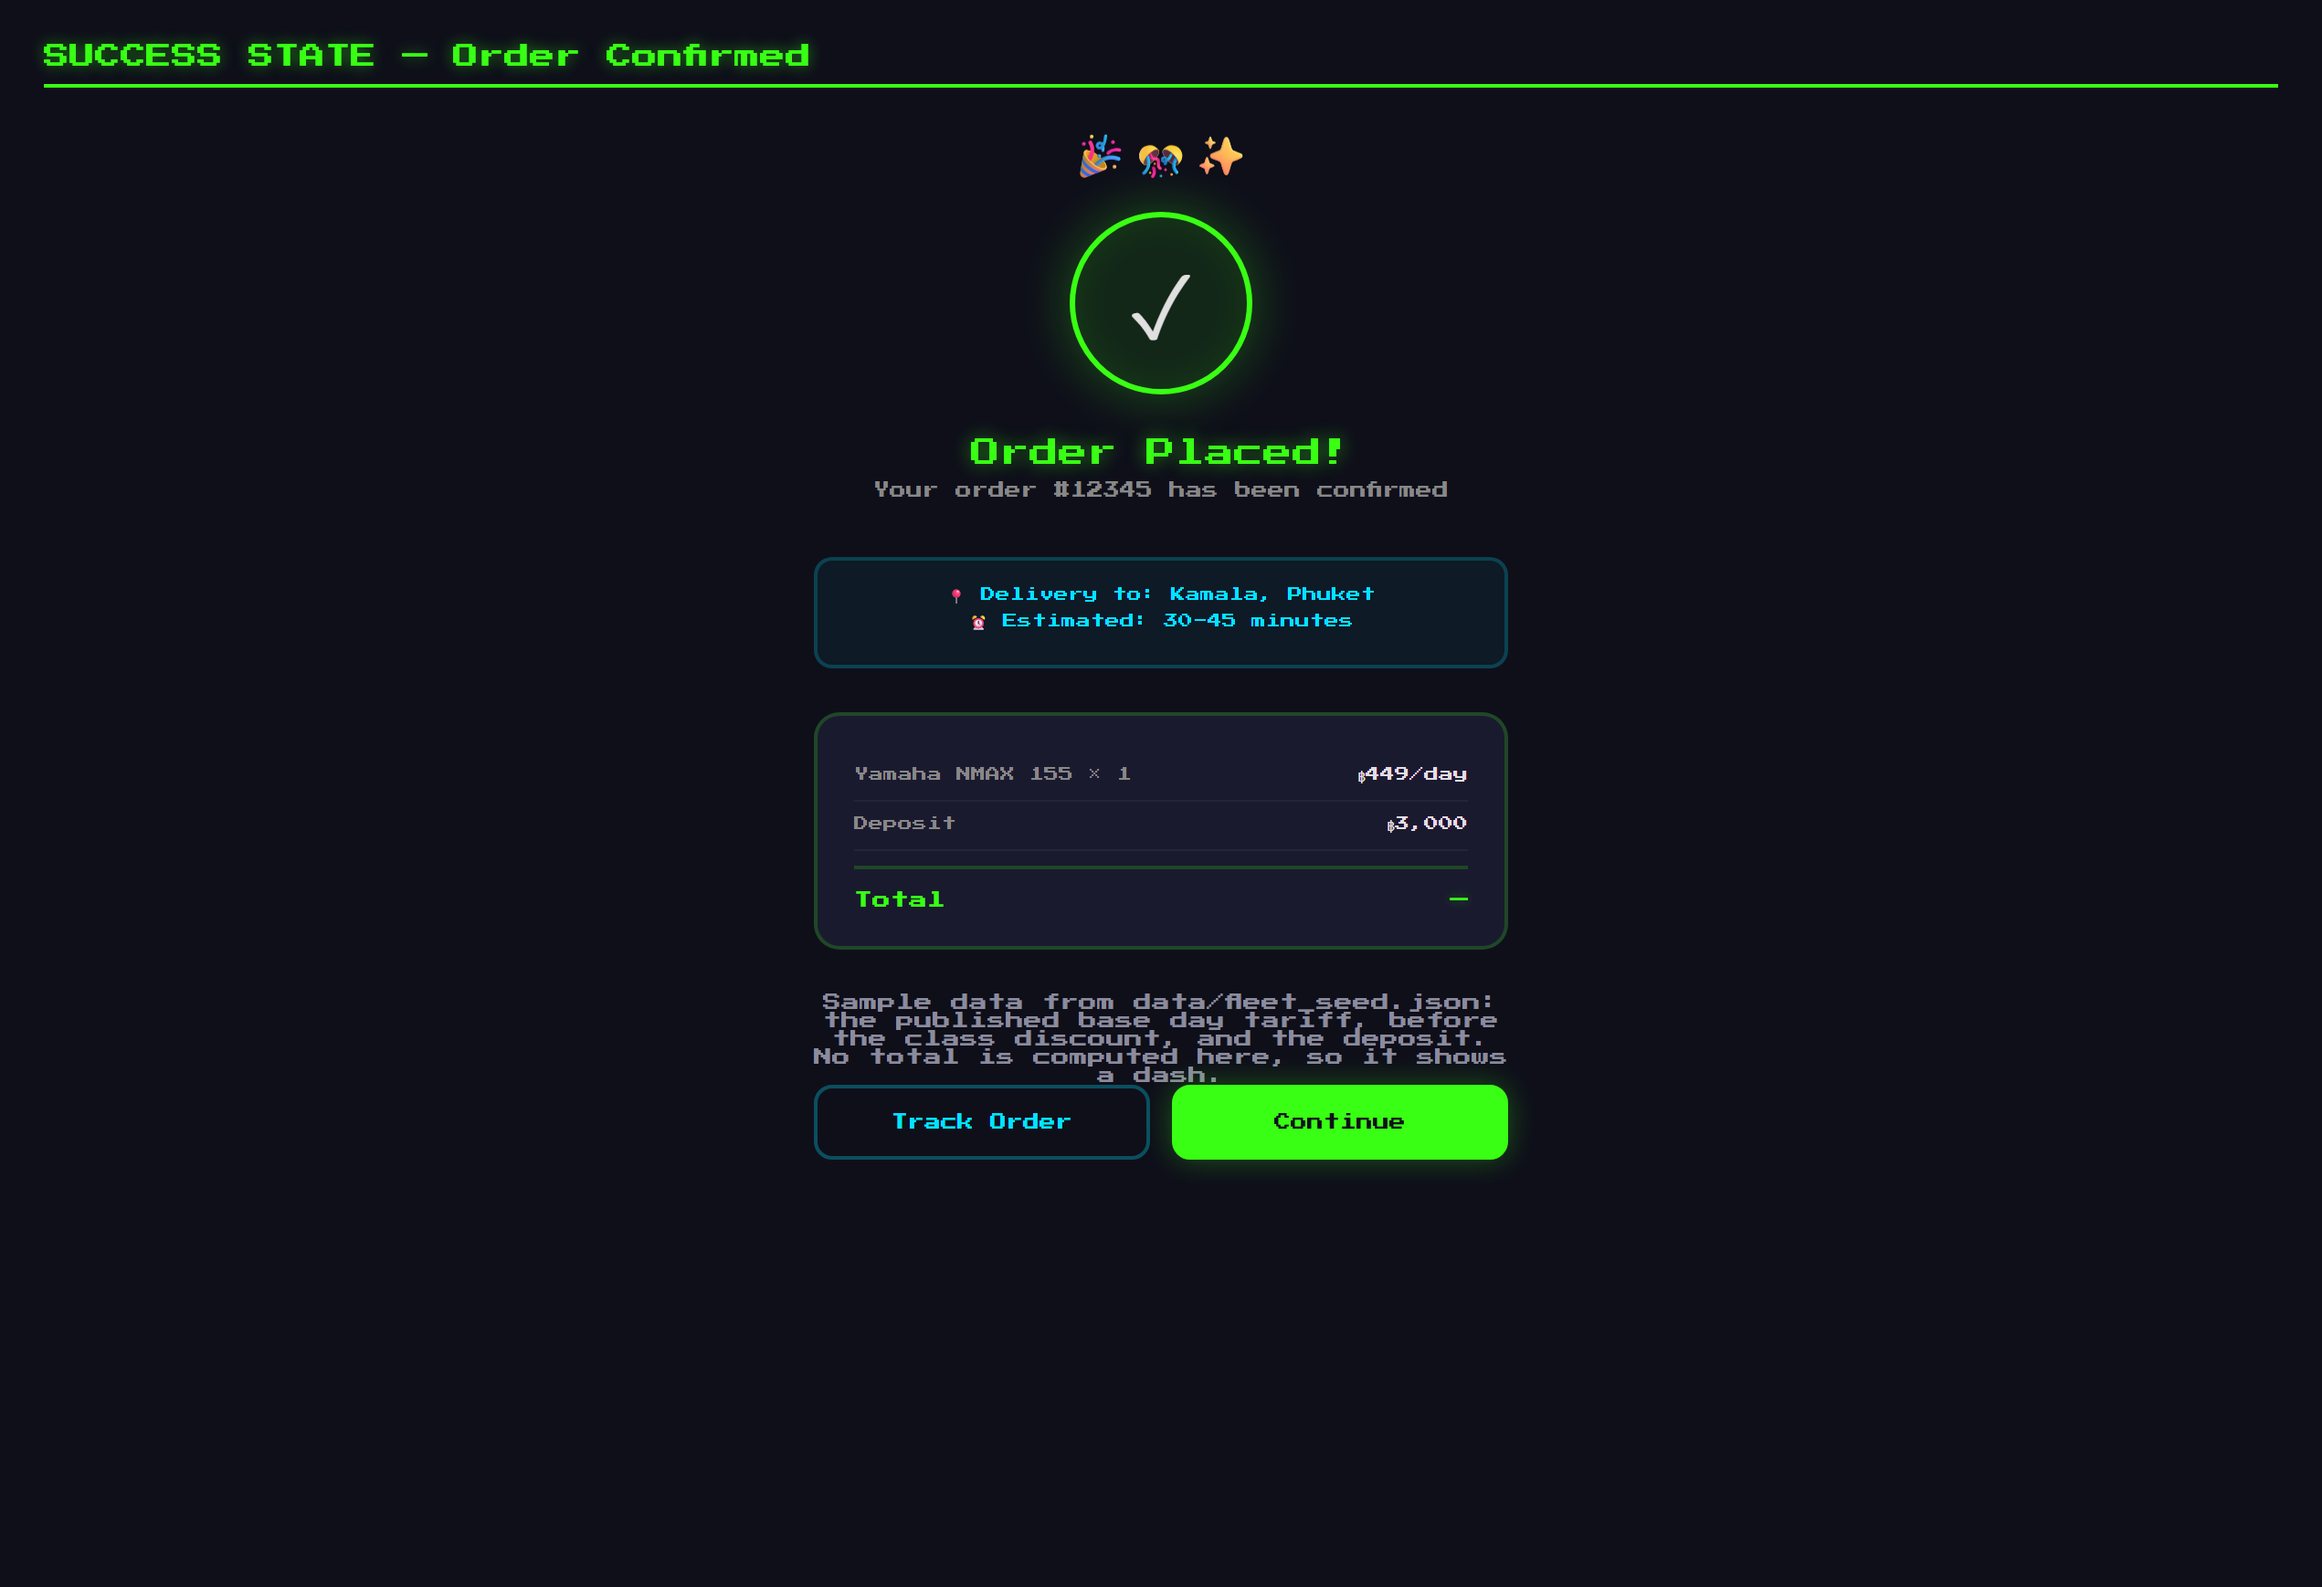
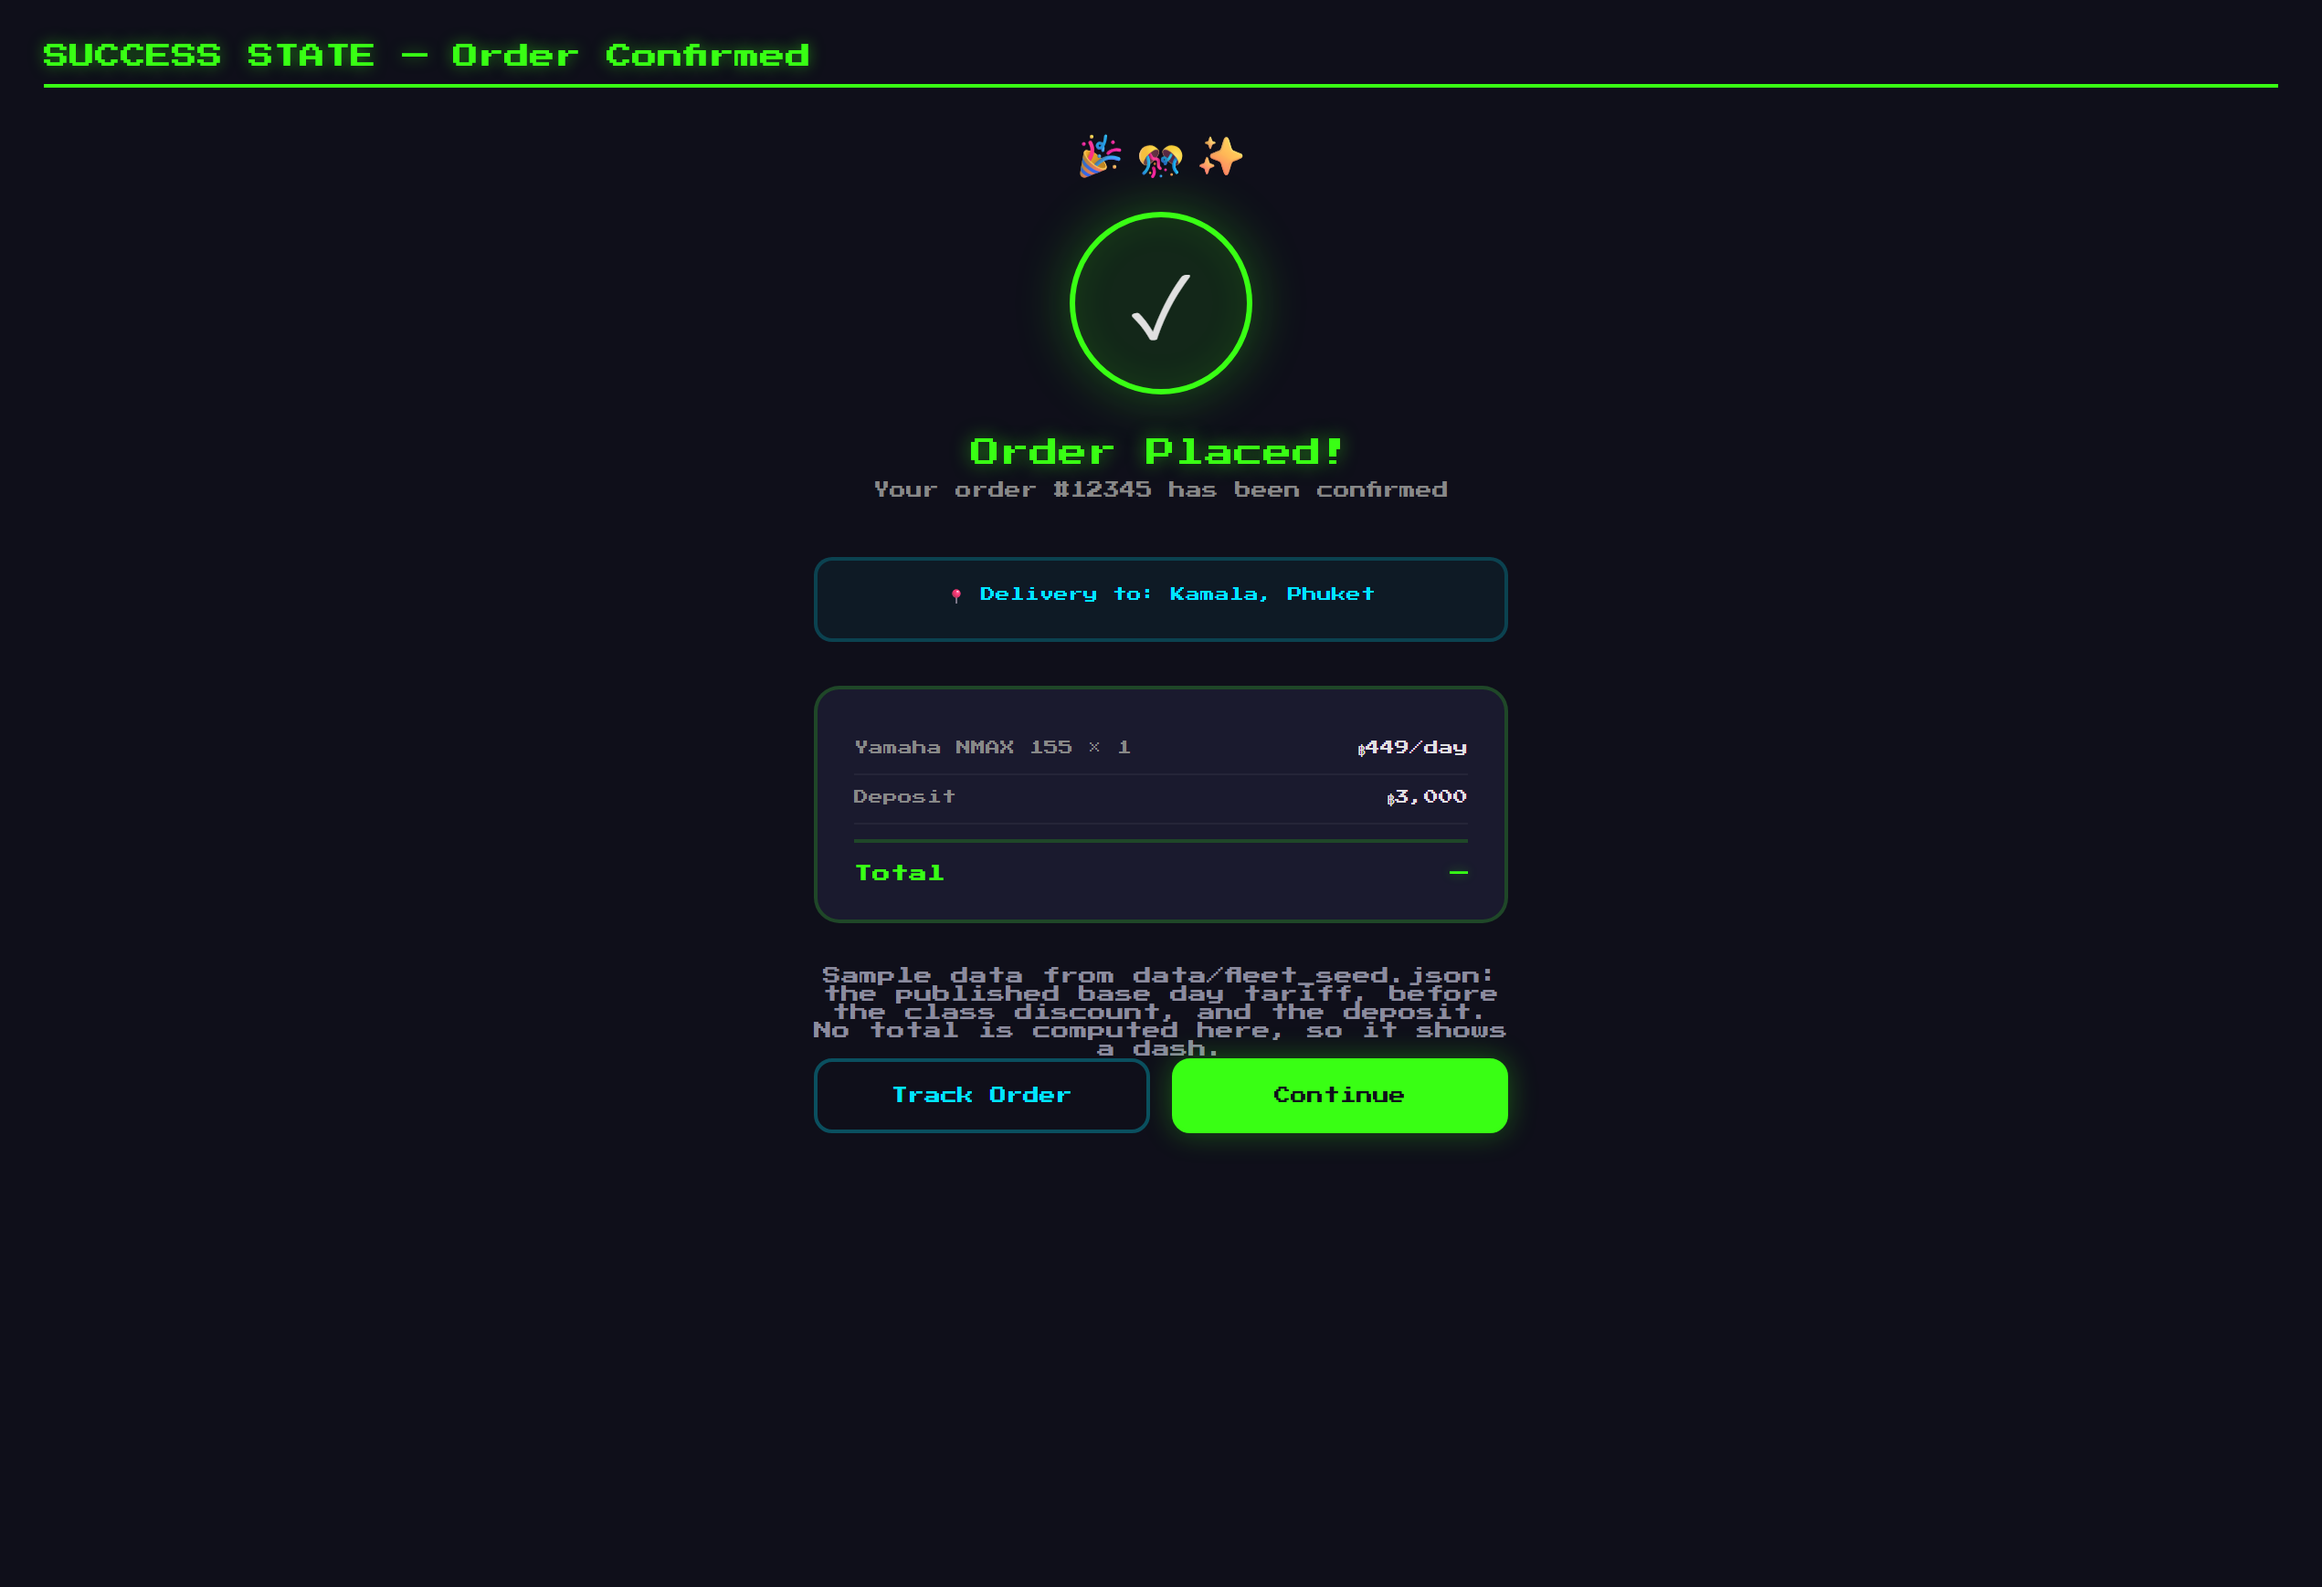
screenshots: no free delivery and no 30-45 minute estimate on the rental demo pages (review)
Review found two delivery claims of the old shop still on the demo pages
this branch re-rendered, where they now read as rental claims that
data/fleet_seed.json contradicts. Commit 5b14236 says every figure on those
pages is the page's own, from the seed.

- 07-cart said "Delivery: Free". The seed's rental_terms.delivery documents
  one delivery price (known_tariff_example: Bangtao, 290 THB), and its
  tariff_note says every other area's price is unpublished and must render
  as a dash. The cart names no area, so its delivery row now shows a dash,
  like its subtotal and total, and its note says why. The edit is made in
  the heredoc of generate-pages.sh, which was run again: the 05, 06 and 07
  pages equal their heredocs byte for byte (05 and 06 unchanged). The
  unused .free rule went with the word.
- 20-success said "Estimated: 30-45 minutes" under the delivery address.
  The seed publishes no travel time: same_day delivery is two hours after
  the booking and never before the 11:00-13:00 window. The owner ruled on
  2026-09-24 that no delivery time in minutes is shown
  (tests/delivery_eta_wiring.rs). The line is removed rather than replaced,
  so nothing is paraphrased from the seed; the address line stays.

Both renders were taken again the way 5b14236 took them: headless Microsoft
Edge, a 1271 x 869 window at device scale 2 (2542 x 1738), waiting for the
page's web fonts (--virtual-time-budget=10000). A trial render of the
[…]

Changed region(s): [[0.3419, 0.3728, 0.6526, 0.7457]]

diff --git a/screenshots/07-cart/index.html b/screenshots/07-cart/index.html
@@ -1,9 +1,9 @@
 <!DOCTYPE html><html><head><meta charset="utf-8"/><meta name="viewport" content="width=device-width,initial-scale=1.0"/><title>07 · Cart</title>
 <link href="https://fonts.googleapis.com/css2?family=Inter:wght@400;600;700&family=Press+Start+2P&display=swap" rel="stylesheet">
-<style>:root{--bg:#0f0f1a;--bg2:#1a1a2e;--card:#16213e;--border:#2a2a4a;--text:#e8e8e8;--text2:#8b8b9e;--green:#39ff14;--pixel-shadow:4px 4px 0 rgba(0,0,0,0.5);--radius-sm:4px;--radius-md:8px;}*{box-sizing:border-box;margin:0;padding:0;}body{font-family:'Inter',sans-serif;background:var(--bg);color:var(--text);padding:24px;}h1{font-family:'Press Start 2P',monospace;font-size:10px;color:var(--cyan);margin-bottom:20px;text-transform:uppercase;letter-spacing:2px;}.note{font-size:10px;color:var(--text2);margin-bottom:12px;}.item{display:flex;align-items:center;gap:10px;background:var(--card);border:2px solid var(--border);border-radius:var(--radius-md);padding:10px;margin-bottom:8px;box-shadow:var(--pixel-shadow);}.img{width:44px;height:44px;background:var(--bg2);border-radius:var(--radius-sm);display:flex;align-items:center;justify-content:center;font-size:22px;flex-shrink:0;}.info{flex:1;}.name{font-weight:600;font-size:12px;}.price{font-size:10px;color:var(--text2);}.controls{display:flex;align-items:center;gap:6px;}.qty{width:26px;height:26px;border:2px solid var(--border);background:var(--bg2);color:var(--text);border-radius:var(--radius-sm);cursor:pointer;font-size:14px;display:flex;align-items:center;justify-content:center;}.val{font-family:'Press Start 2P',monospace;font-size:9px;min-width:18px;text-align:center;}.summary{background:var(--card);border:2px solid var(--border);border-radius:var(--radius-md);padding:14px;box-shadow:var(--pixel-shadow);}.row{display:flex;justify-content:space-between;margin-bottom:6px;font-size:12px;}.row.total{font-weight:700;padding-top:6px;border-top:1px solid var(--border);margin-top:6px;}.amount{font-family:'Press Start 2P',monospace;font-size:12px;color:var(--green);}.free{color:var(--green);}</style></head><body>
+<style>:root{--bg:#0f0f1a;--bg2:#1a1a2e;--card:#16213e;--border:#2a2a4a;--text:#e8e8e8;--text2:#8b8b9e;--green:#39ff14;--pixel-shadow:4px 4px 0 rgba(0,0,0,0.5);--radius-sm:4px;--radius-md:8px;}*{box-sizing:border-box;margin:0;padding:0;}body{font-family:'Inter',sans-serif;background:var(--bg);color:var(--text);padding:24px;}h1{font-family:'Press Start 2P',monospace;font-size:10px;color:var(--cyan);margin-bottom:20px;text-transform:uppercase;letter-spacing:2px;}.note{font-size:10px;color:var(--text2);margin-bottom:12px;}.item{display:flex;align-items:center;gap:10px;background:var(--card);border:2px solid var(--border);border-radius:var(--radius-md);padding:10px;margin-bottom:8px;box-shadow:var(--pixel-shadow);}.img{width:44px;height:44px;background:var(--bg2);border-radius:var(--radius-sm);display:flex;align-items:center;justify-content:center;font-size:22px;flex-shrink:0;}.info{flex:1;}.name{font-weight:600;font-size:12px;}.price{font-size:10px;color:var(--text2);}.controls{display:flex;align-items:center;gap:6px;}.qty{width:26px;height:26px;border:2px solid var(--border);background:var(--bg2);color:var(--text);border-radius:var(--radius-sm);cursor:pointer;font-size:14px;display:flex;align-items:center;justify-content:center;}.val{font-family:'Press Start 2P',monospace;font-size:9px;min-width:18px;text-align:center;}.summary{background:var(--card);border:2px solid var(--border);border-radius:var(--radius-md);padding:14px;box-shadow:var(--pixel-shadow);}.row{display:flex;justify-content:space-between;margin-bottom:6px;font-size:12px;}.row.total{font-weight:700;padding-top:6px;border-top:1px solid var(--border);margin-top:6px;}.amount{font-family:'Press Start 2P',monospace;font-size:12px;color:var(--green);}</style></head><body>
 <h1>07 · Cart</h1>
-<p class="note">Sample cart: models and published base day tariffs, before the class discount, from data/fleet_seed.json. No total is computed here, so each shows a dash.</p>
+<p class="note">Sample cart: models and published base day tariffs, before the class discount, from data/fleet_seed.json. No subtotal or total is computed here, and the seed publishes a delivery price for Bangtao only, so each of the three shows a dash.</p>
 <div class="item"><div class="img">🛵</div><div class="info"><div class="name">Yamaha NMAX 155</div><div class="price">฿449/day</div></div><div class="controls"><button class="qty">−</button><span class="val">1</span><button class="qty">+</button></div></div>
 <div class="item"><div class="img">🏍</div><div class="info"><div class="name">Honda CB650R</div><div class="price">฿1,798/day</div></div><div class="controls"><button class="qty">−</button><span class="val">1</span><button class="qty">+</button></div></div>
-<div class="summary"><div class="row"><span style="color:var(--text2)">Subtotal:</span><span>—</span></div><div class="row"><span style="color:var(--text2)">Delivery:</span><span class="free">Free</span></div><div class="row total"><span>Total:</span><span class="amount">—</span></div></div>
+<div class="summary"><div class="row"><span style="color:var(--text2)">Subtotal:</span><span>—</span></div><div class="row"><span style="color:var(--text2)">Delivery:</span><span>—</span></div><div class="row total"><span>Total:</span><span class="amount">—</span></div></div>
 </body></html>

diff --git a/screenshots/20-success/index.html b/screenshots/20-success/index.html
@@ -144,7 +144,6 @@
 
     <div class="delivery-info">
       <span>📍 Delivery to: Kamala, Phuket</span>
-      <span>⏰ Estimated: 30-45 minutes</span>
     </div>
 
     <div class="order-details">

diff --git a/tests/legacy_vocabulary_wiring.rs b/tests/legacy_vocabulary_wiring.rs
@@ -1275,7 +1275,7 @@ const CLEAN_RENDERS: &[Render] = &[
     },
     Render {
         path: "screenshots/07-cart/screenshot.png",
-        shows: "two cart lines: the seed's models and base day tariffs",
+        shows: "two cart lines: the seed's models and base day tariffs; no delivery price",
     },
     Render {
         path: "screenshots/08-member-cards/screenshot.png",
@@ -1327,7 +1327,7 @@ const CLEAN_RENDERS: &[Render] = &[
     },
     Render {
         path: "screenshots/20-success/screenshot.png",
-        shows: "an order receipt with the seed's tariff and deposit",
+        shows: "an order receipt with the seed's tariff and deposit; no delivery time",
     },
     Render {
         path: "screenshots/00-hello-world.png",
@@ -1357,6 +1357,16 @@ const CLEAN_RENDERS: &[Render] = &[
 /// Each was looked at before it was committed. Two moved with their page (git
 /// mv, nothing deleted): `05-strain-cards/` to `05-bike-cards/` and
 /// `10-plants/` to `10-order-steps/`. Git history keeps what each showed.
+///
+/// Two were taken a second time the same day, the same way, after review found
+/// two delivery claims of the old shop still on their pages, which
+/// `data/fleet_seed.json` contradicts: `07-cart` said delivery was free (the
+/// seed publishes one area's delivery price and says every other shows a dash)
+/// and `20-success` gave a 30-45 minute estimate (the seed's same-day delivery
+/// is a window, and the owner ruled on 2026-09-24 that no travel time in
+/// minutes is shown; `tests/delivery_eta_wiring.rs`). A trial render of the
+/// unchanged `06-order-cards` page, waiting for its web fonts, matched its
+/// committed render pixel for pixel.
 const RERENDERED_2026_09_26: &[&str] = &[
     "screenshots/00-hello-world/screenshot.png",
     "screenshots/04-badges/screenshot.png",
